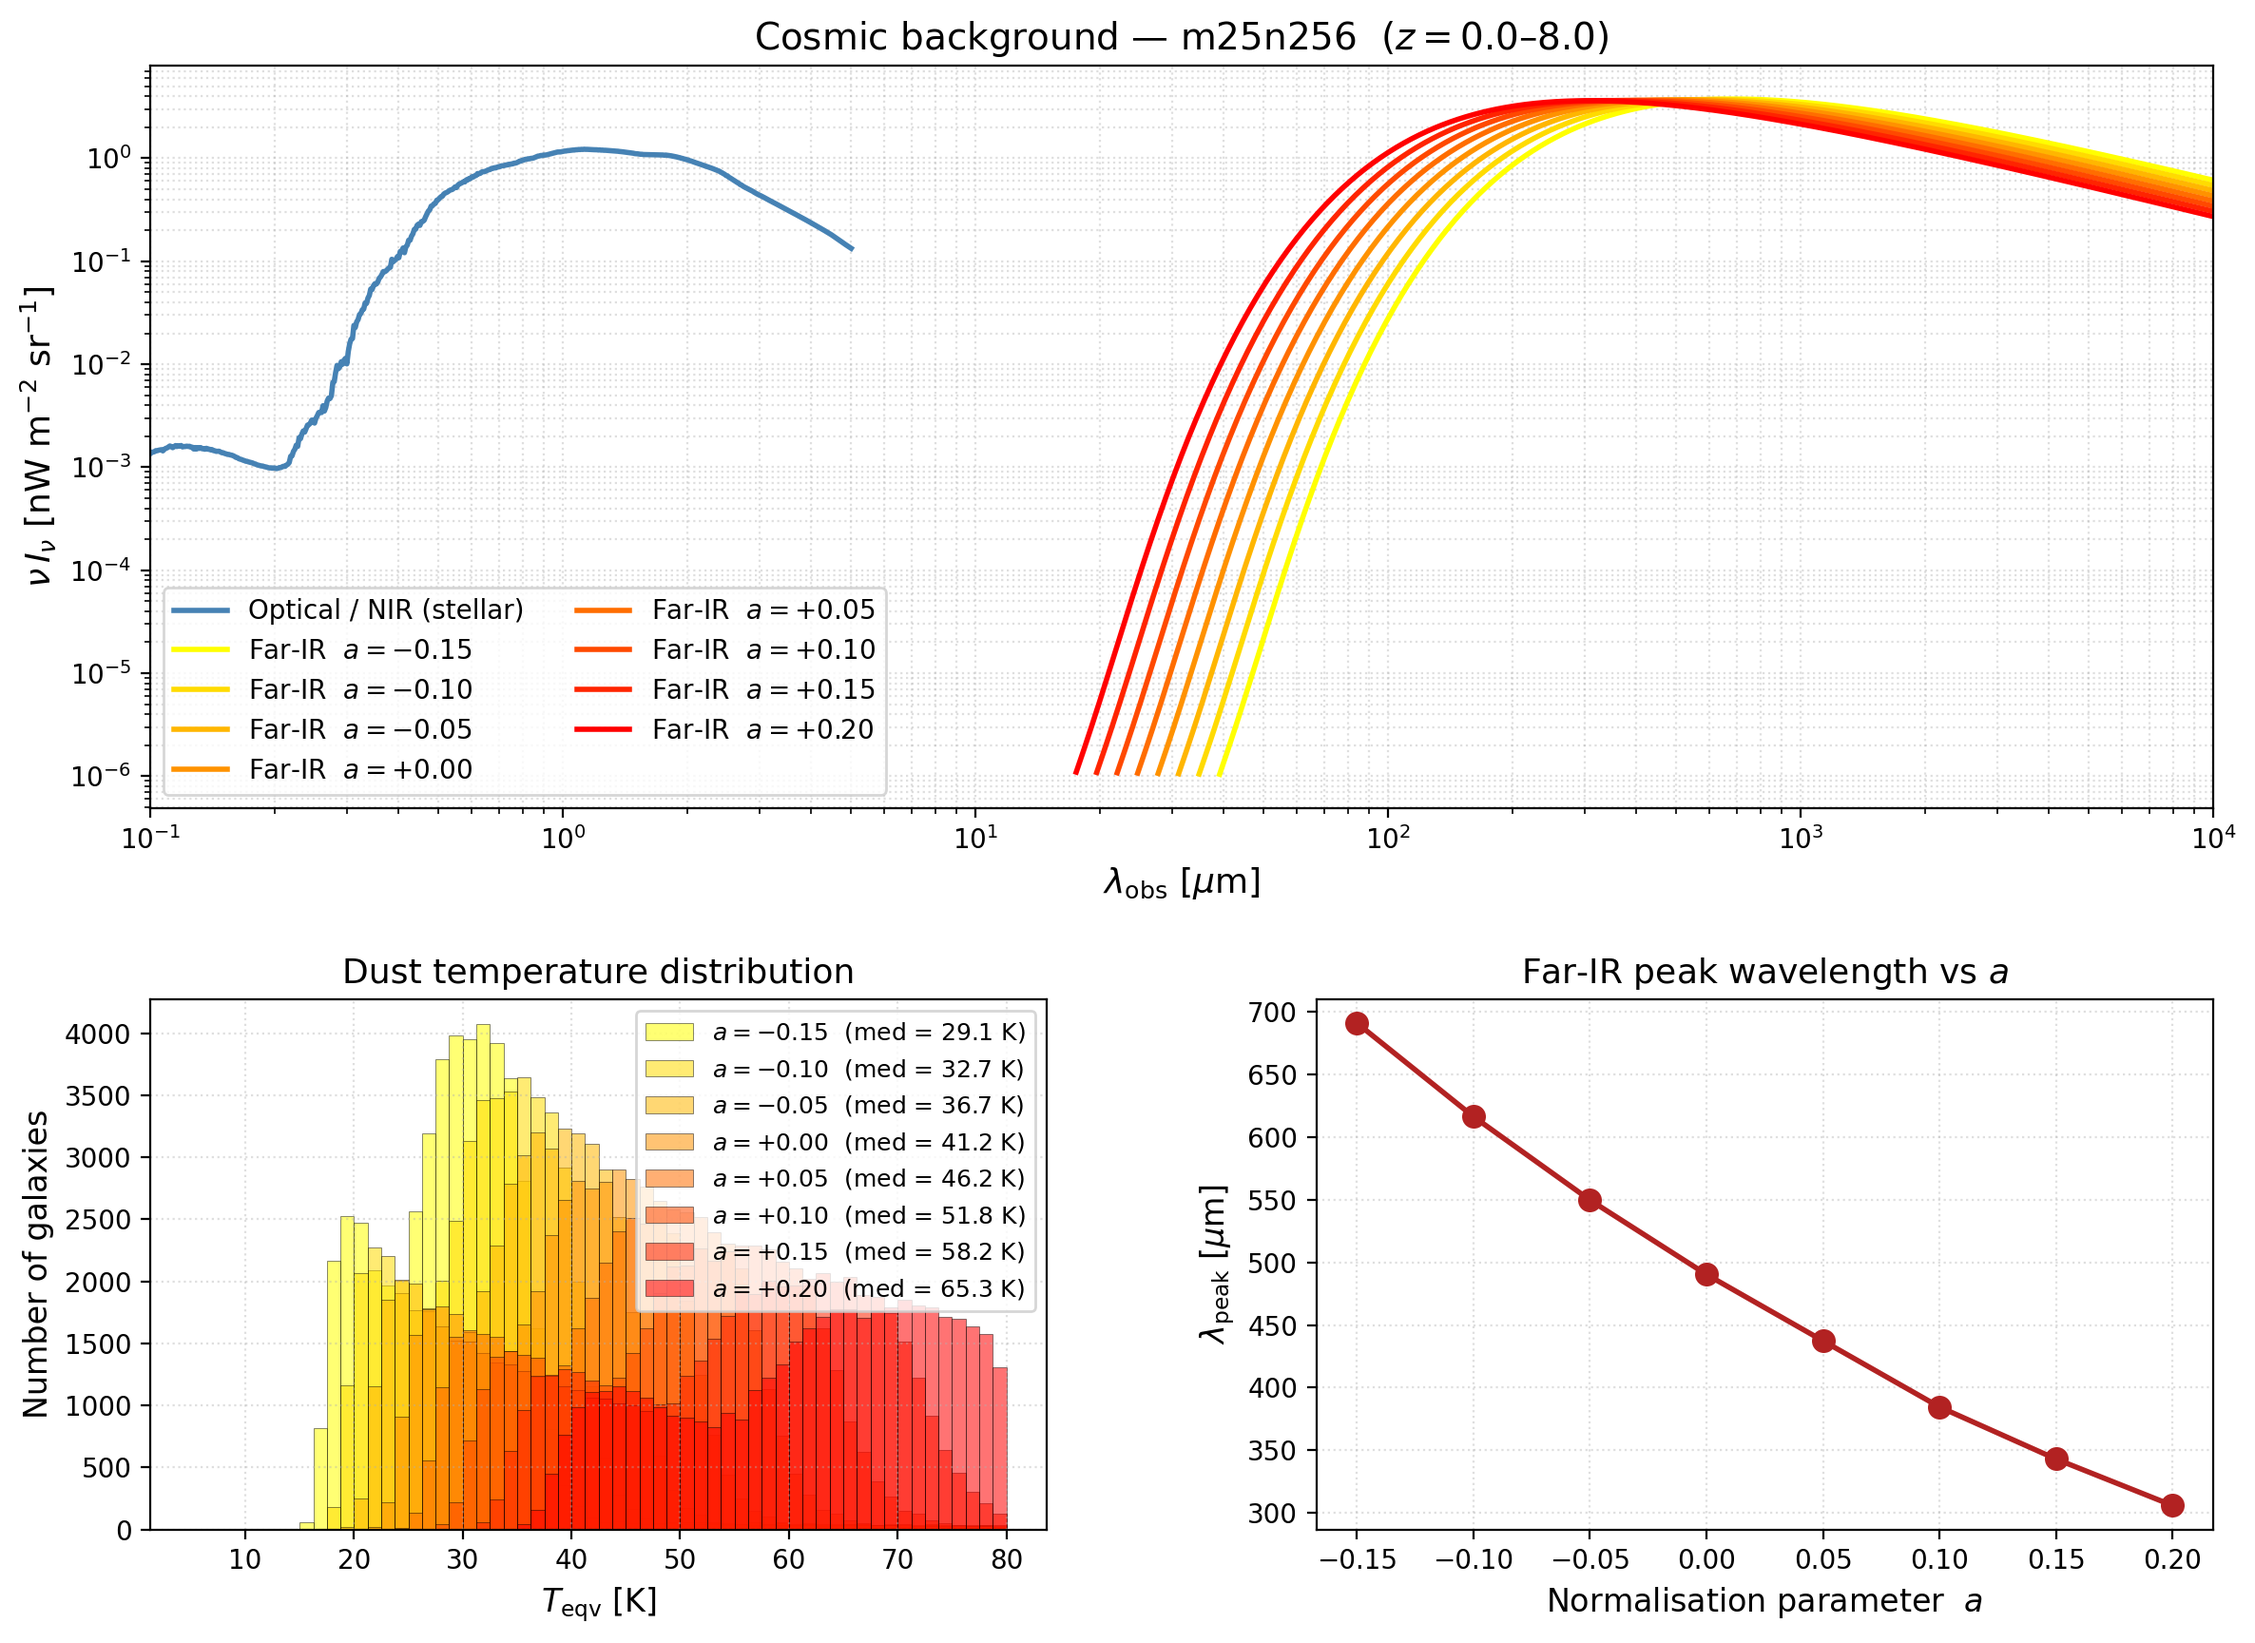
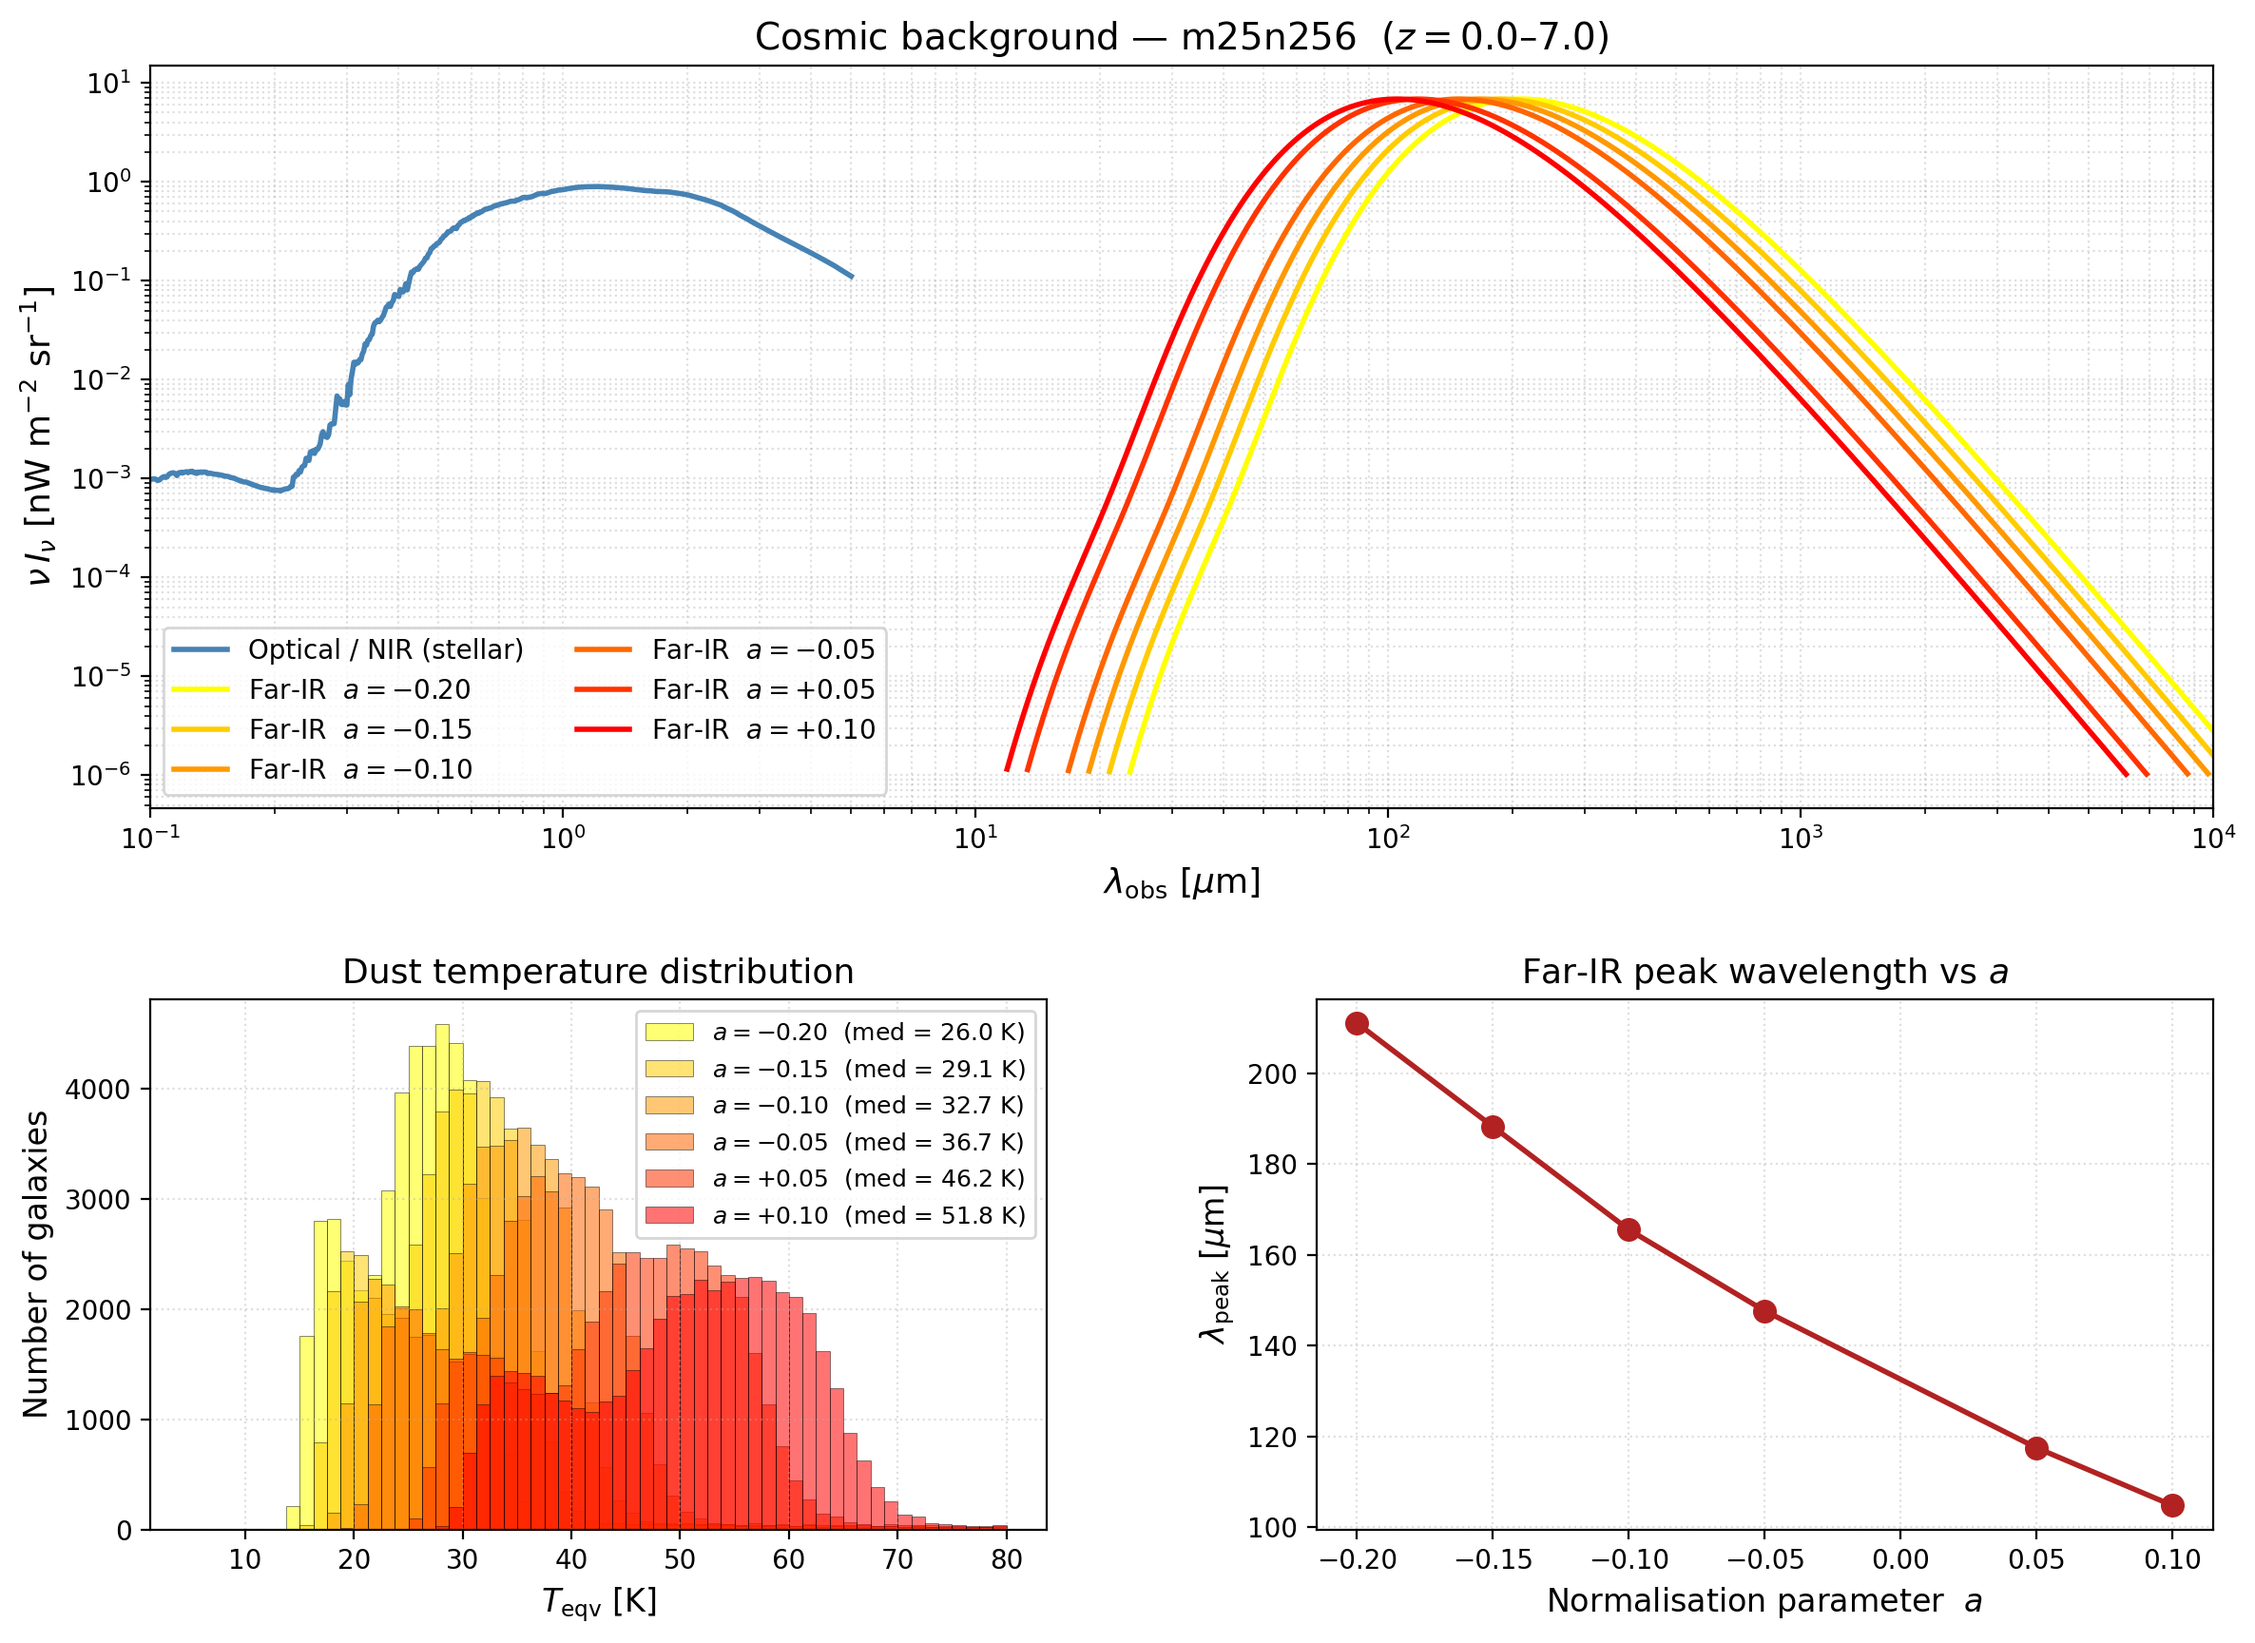
fixing sign in emissivity function for SED shape

diff --git a/scripts/run_combined_diagnostic.py b/scripts/run_combined_diagnostic.py
@@ -47,7 +47,7 @@ def main():
                         choices=["m25n256", "m50n512", "m100n1024"])
     parser.add_argument("--area", type=float, default=1.0)
     parser.add_argument("--z_min", type=float, default=0.0)
-    parser.add_argument("--z_max", type=float, default=3.0)
+    parser.add_argument("--z_max", type=float, default=7.0)
     parser.add_argument(
         "--a_dust", type=float, nargs="+", default=[-0.05],
         help="One or more values of the normalisation parameter 'a' "

diff --git a/scripts/run_combined.py b/scripts/run_combined.py
@@ -30,7 +30,7 @@ def main():
                         choices=["m25n256", "m50n512", "m100n1024"])
     parser.add_argument("--area", type=float, default=1.0)
     parser.add_argument("--z_min", type=float, default=0.0)
-    parser.add_argument("--z_max", type=float, default=3.0)
+    parser.add_argument("--z_max", type=float, default=7.0)
     args = parser.parse_args()
 
     cfg = load_config(args.sim)

diff --git a/src/physics/sed.py b/src/physics/sed.py
@@ -22,7 +22,8 @@ def mbb(wavelength_AA, temperature, beta=2.0, norm=1.0):
     x = np.clip(x, 0, 700)
 
     B_lam = (2 * h.value * c.value ** 2) / (lam_m ** 5) / np.expm1(x)
-    emissivity = (lam_m / 100e-6) ** beta
+    
+    emissivity = (100e-6 / lam_m) ** beta
 
     return norm * emissivity * B_lam
 
